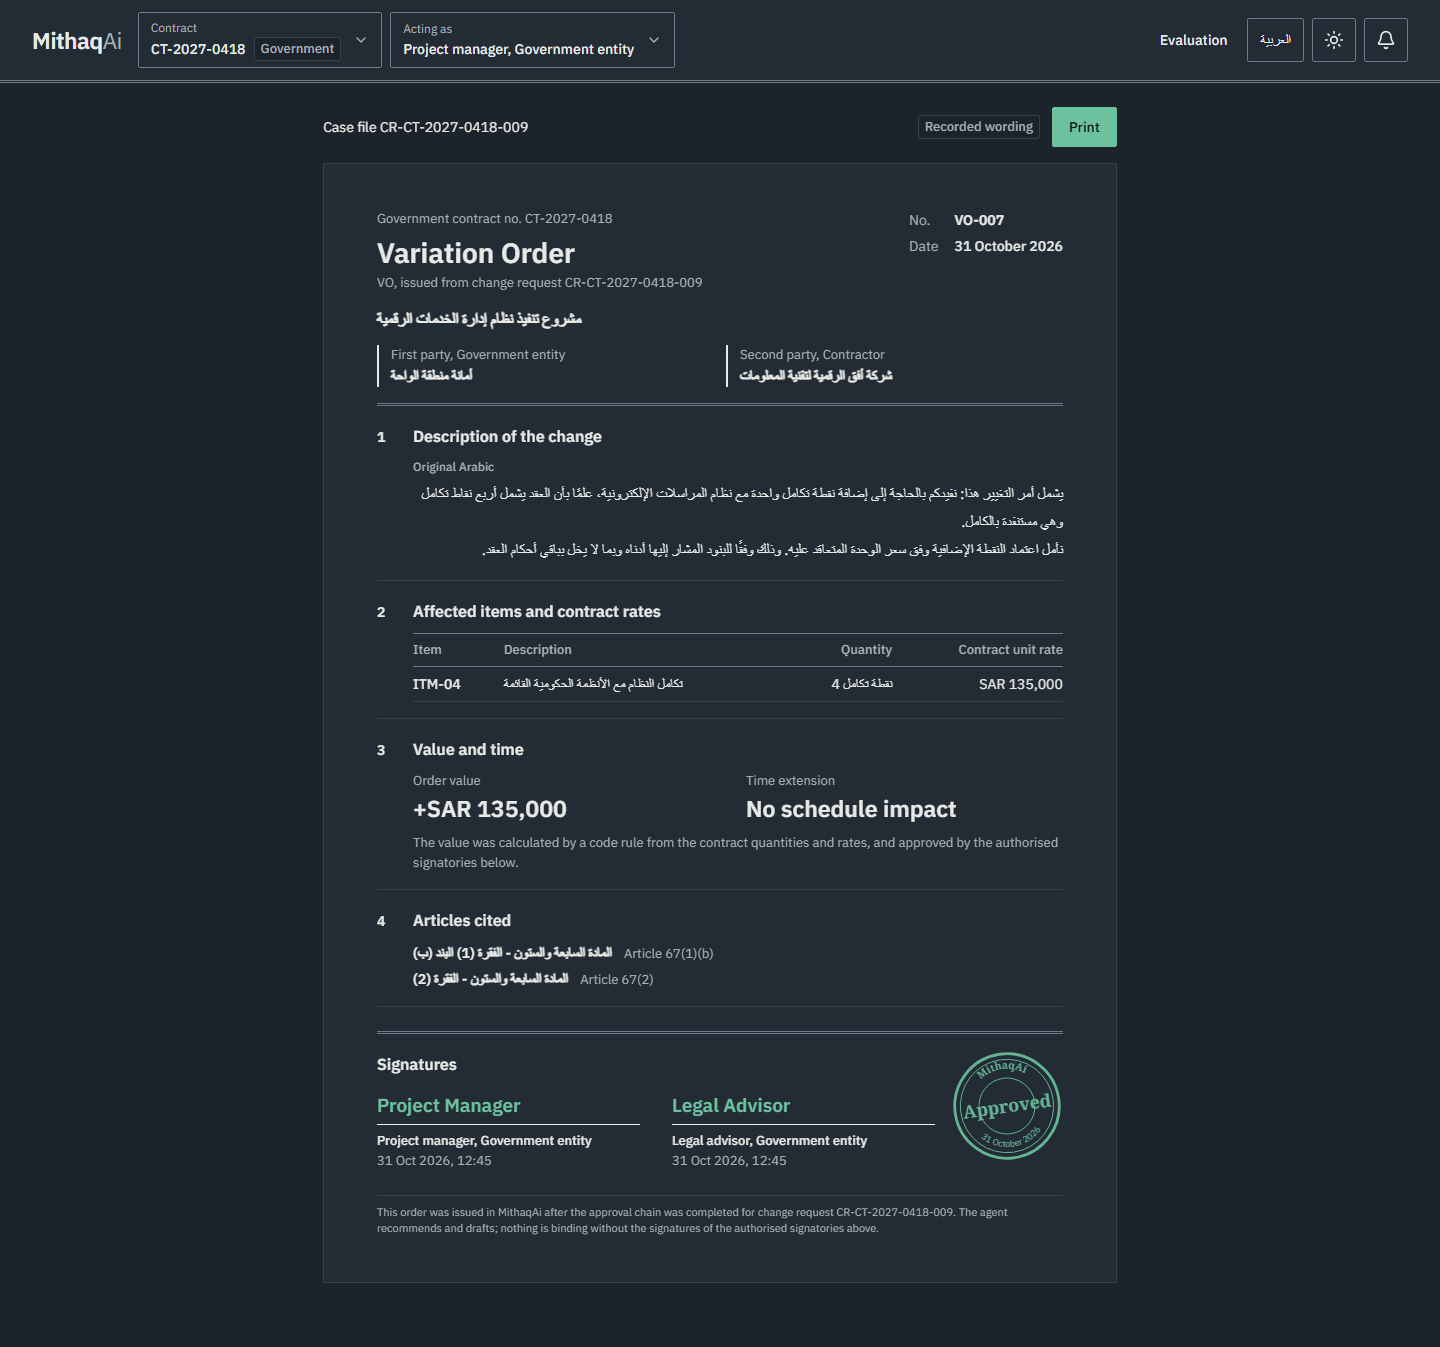
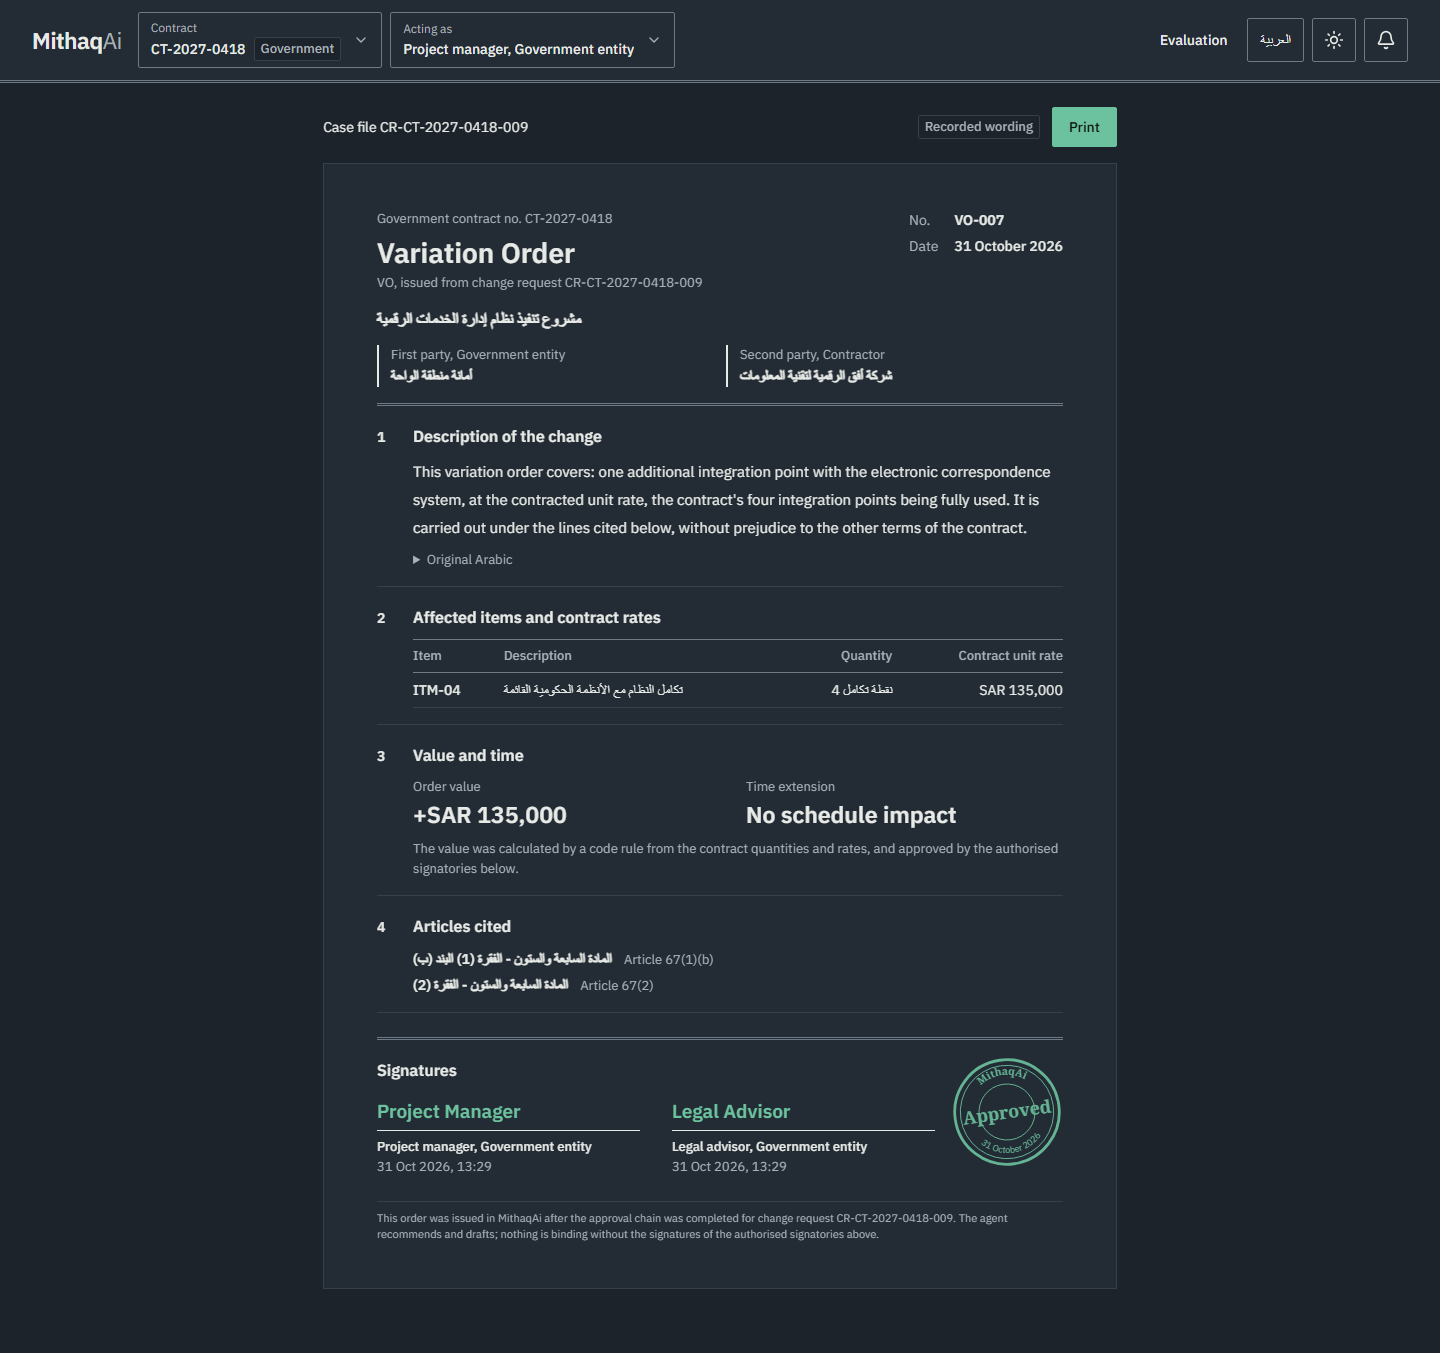
English VO prints on one A4 page; refresh English UX shots
The English audit spec checks that the variation order in English mode still
prints on a single A4 page. The English UX screenshots of the VO and the
issued case file now show the drafted English wording.

diff --git a/frontend/e2e/english.spec.ts b/frontend/e2e/english.spec.ts
@@ -192,6 +192,17 @@ test.describe.serial("English recording path", () => {
     await shoot(page, "case-signed-seal");
   });
 
+  test("English VO prints on one A4 page", async ({ page }) => {
+    await page.addInitScript(() => window.localStorage.setItem("mithaqai.lang", "en"));
+    await page.emulateMedia({ media: "print", colorScheme: "light" });
+    await page.goto(`/contracts/${PRIV}/variation-orders/CR-C-SUBSTITUTION-VO`);
+    await page.getByText("This variation order covers").first().waitFor();
+    await page.evaluate(() => document.fonts.ready);
+    const pdf = await page.pdf({ preferCSSPageSize: true, printBackground: true });
+    const pages = pdf.toString("latin1").match(/\/Type\s*\/Page[^s]/g) ?? [];
+    expect(pages.length).toBe(1);
+  });
+
   test("VO, limits, audit, evaluation", async ({ page }) => {
     await open(page, `/contracts/${PRIV}/variation-orders/CR-C-SUBSTITUTION-VO`, /VO-0/);
     await shoot(page, "vo-document");
